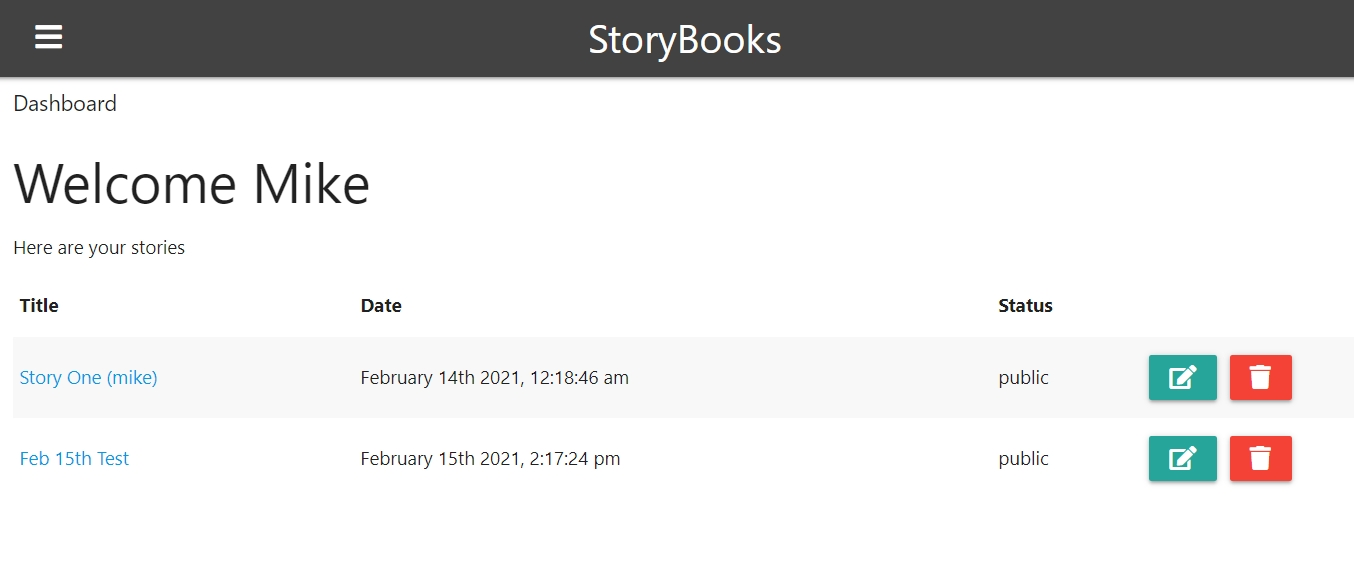
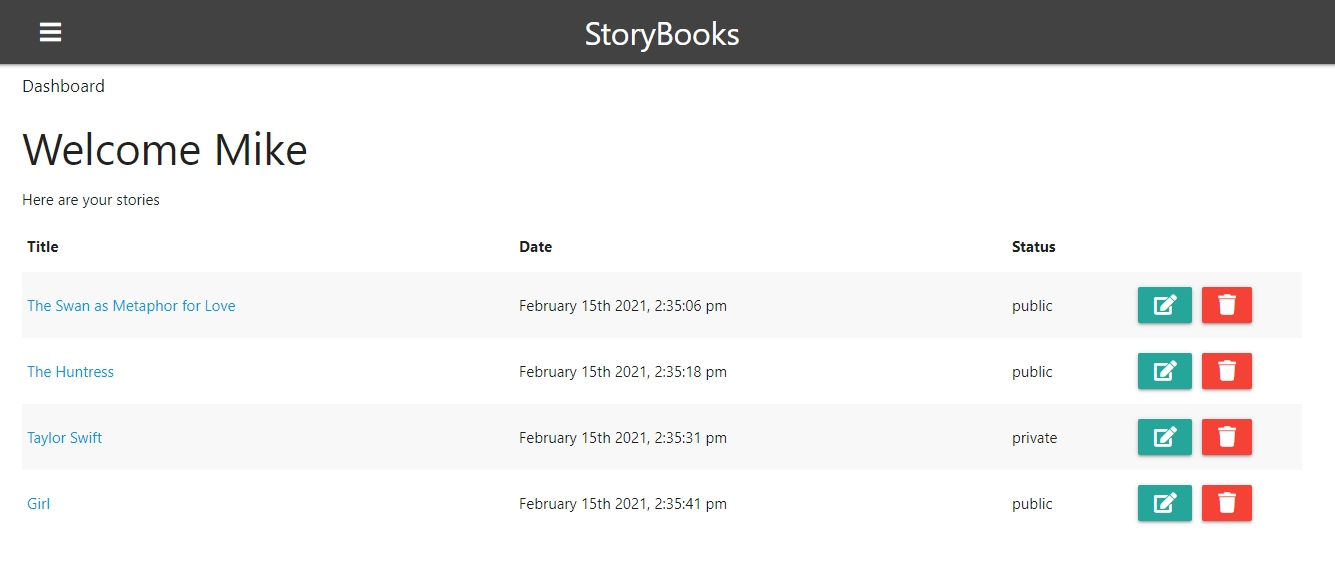
Updated Data, updated README

diff --git a/README.md b/README.md
@@ -28,7 +28,7 @@
 
 ###### Create/View/Edit/Delete Stories
 > <img src= "/public/Images/addStory.jpg" alt="Burger Order System Screenshot" width="400"/>
-
+> <img src= "/public/Images/viewStory.jpg" alt="Burger Order System Screenshot" width="400"/>
     
 </br>
 </br>
@@ -42,7 +42,7 @@
 
 
 ### Technologies
-HTML , CSS , Materialize, Javascript , MongoDB , Node , Express, Handlebars, Google OAuth
+HTML , CSS , Materialize, Javascript , MongoDB , Node , Express, Handlebars, Google OAuth, Passport
 
 ### Usage Guide
 ---
@@ -54,14 +54,8 @@ Navigate to the link. Your data will be saved in MongoDB
 ### Contributing
 ---
 > :school: 
-**University of Toronto Continuing Educationg
-Full Stack Flex Program** 
+**Traversy Media | Web Development & Programming Tutorials** 
 :school:
-
-:heart: 
-*Students and Instructors At the UFT-FSF-2020-2021*
-:heart:
-
 
 ### License
 ---
